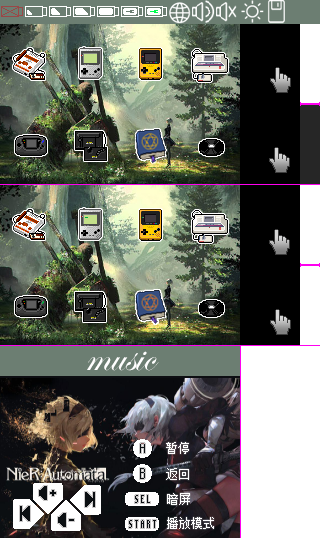
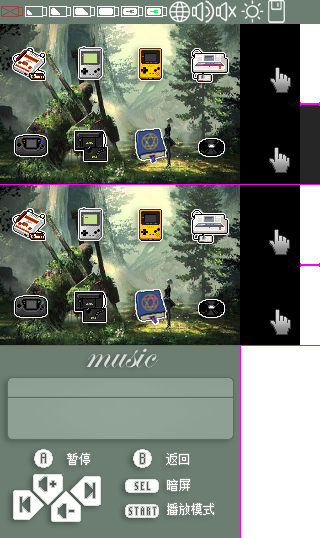
Fix Chinese charactor display error; minor fix on gui place.

diff --git a/esplay-launcher/main/main.c b/esplay-launcher/main/main.c
@@ -116,9 +116,9 @@ long write_txt_frame(FILE *txt, long PTR, char *FILENAME)
             UG_PutSingleString(10, 27 + lineCount * 18, ScreenLine);
             free(ScreenLine);
         }
-        ui_flush();
         battery_level_read(&bat_state);
         drawBattery(bat_state.percentage);
+        ui_flush();
         return (dPTR);
     }
 }
@@ -186,7 +186,7 @@ static void drawHomeScreen()
     {
         title = "192.168.4.1";
     }
-    UG_PutString((240 / 2) - (strlen(title) * 9 / 2), 12, title);
+    UG_PutString((240 / 2) - (strlen(title) * 9 / 2), 10, title);
     uint8_t volume = 25;
     settings_load(SettingAudioVolume, &volume);
     char volStr[3];

diff --git a/esplay-sdk/esplay-components/ugui/UGUI/ugui.c b/esplay-sdk/esplay-components/ugui/UGUI/ugui.c
@@ -5521,6 +5521,8 @@ void _UG_Putcn(char chr, char chrb, UG_S16 x, UG_S16 y, UG_COLOR fc, UG_COLOR bc
    void (*push_pixel)(UG_COLOR);
    bt = (UG_U8)chr;
    bt2 = (UG_U8)chrb;
+   if (bt < 0xa1 || bt2 < 0xa1)
+      return;
    datap = &fontzn[32 * ((bt - 0xa0 - 1) * 94 + (bt2 - 0xa0 - 1))];
    yo = y;
    bn = 16; // (font->char_width;

diff --git a/esplay-launcher/main/graphics.c b/esplay-launcher/main/graphics.c
@@ -169,7 +169,7 @@ void drawVolume(int volume)
 void drawWave(int x, int y, int waveSize, char *waveValue) //value:0-5 wavesize: 8
 {
     //wave dot size 2x2, border width 1
-    char dot = 2, border = 1;
+    char dot = 3, border = 1;
 
     //use word color as dot color
     ushort dotcolor = ui_get_word_color();
